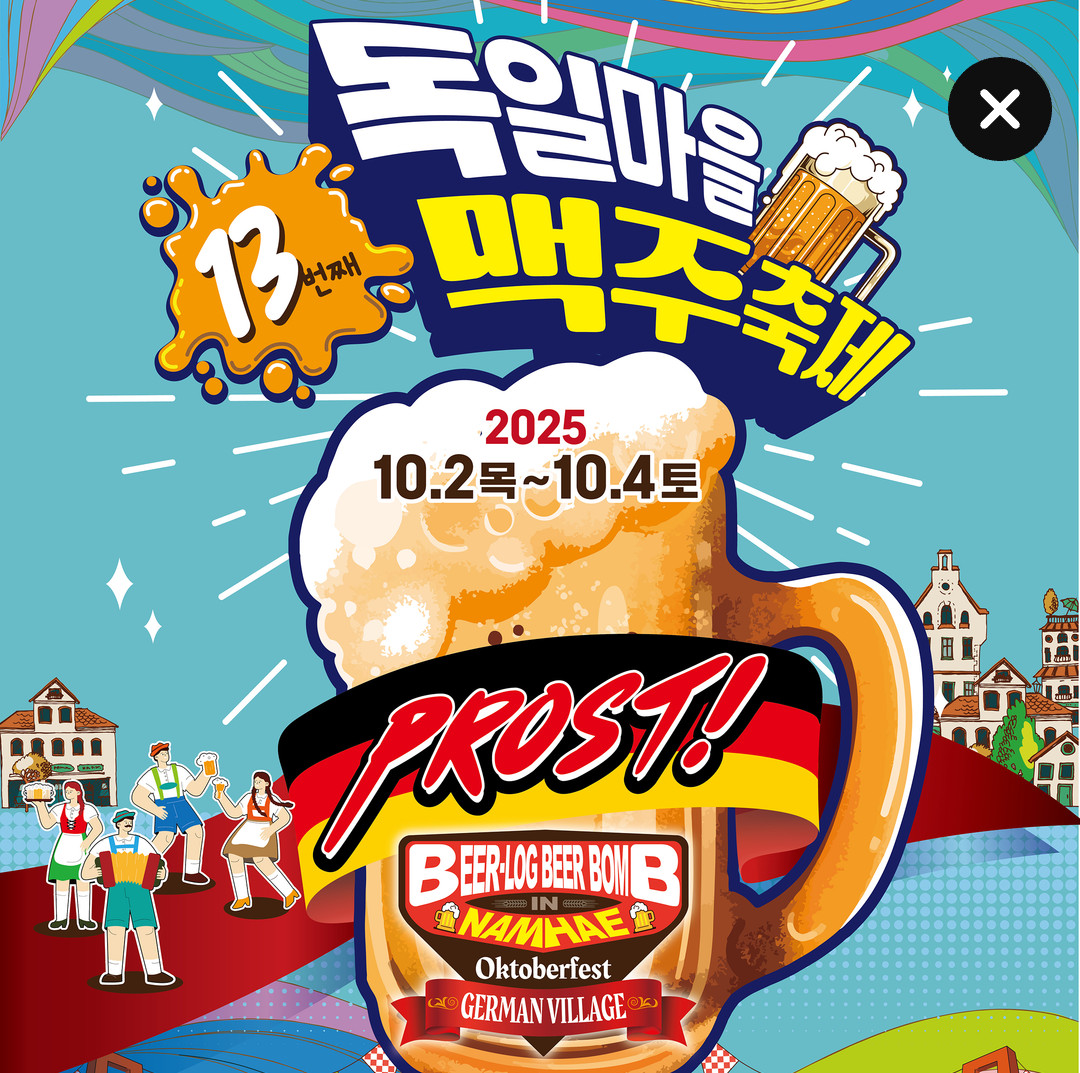
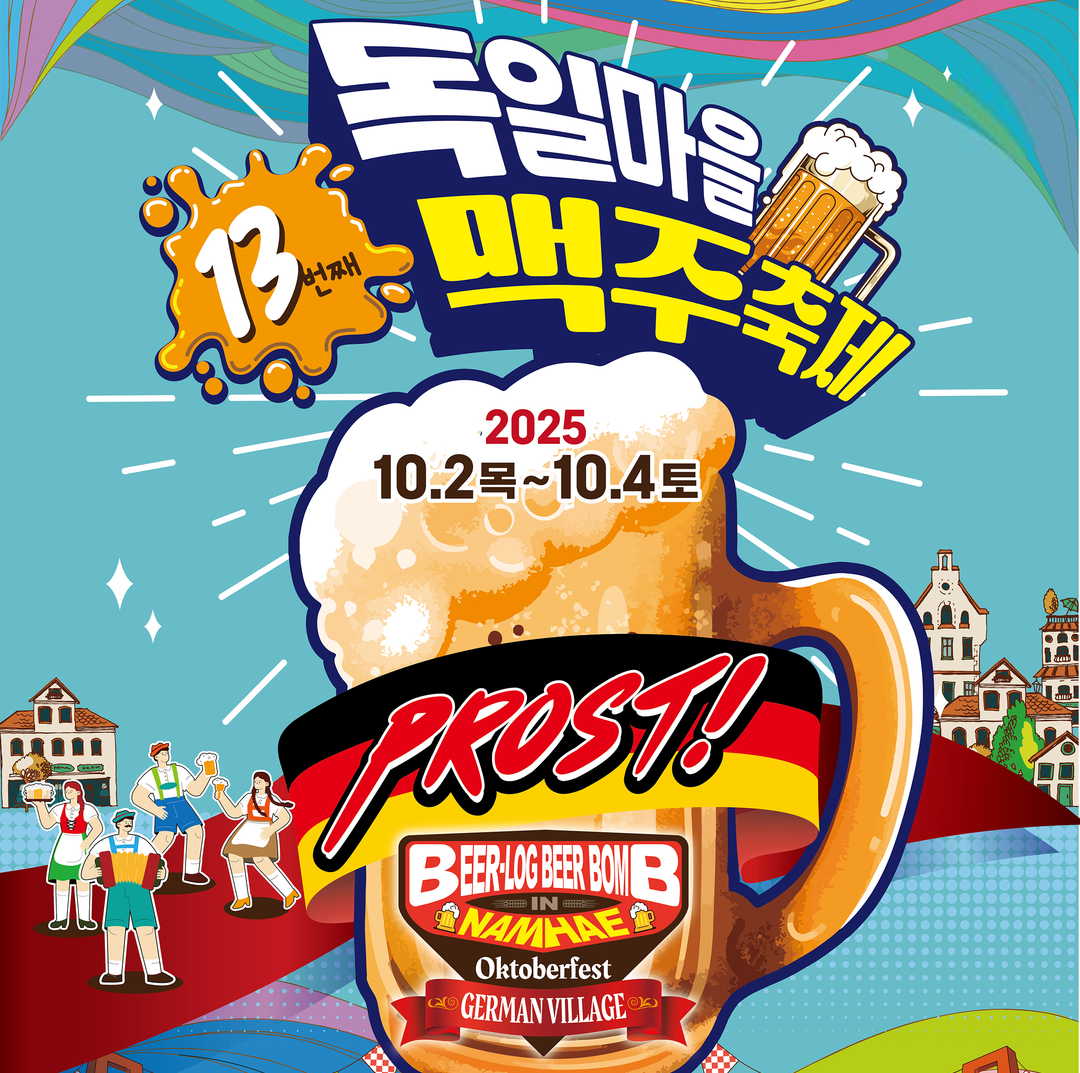
팝업

Changed region(s): [[0.8556, 0.0308, 0.9778, 0.1538]]

diff --git a/application/views/event_calendar.php b/application/views/event_calendar.php
@@ -177,7 +177,15 @@
 	.media-gap{
 		gap: 100px;
 	}
+	.popup-container{
+		right: 5%;
+    margin-top: 7%;
+	}
 	@media (max-width: 768px) {
+		.container{
+			right: auto;
+			margin-top: auto;
+		}
 		.fc-prev-button{
 			background-image: url(assets/img/month-left-m.svg);
 			top: 0px;
@@ -327,11 +335,14 @@
 	}
 </style>
 <body>
-	<div class="popup-container" style="position: sticky;z-index: 10;top: 0;">
-		<div class="card p-0" style="position: absolute; width: 450px; max-width: 100%; left: 50%; transform: translateX(-50%);">
+	<div class="" style="position: sticky;z-index: 10;top: 0;">
+		<div class="card p-0 popup-container" style="position: absolute; width: 450px; max-width: 100%;">
 			<p class="card-text m-0">
+				<div class="bg-black" data-bs-theme="dark" style="position: absolute; border-radius: 50%; padding: 10px; right: 16px; top: 32px;">
+					<button type="button" class="btn-close" aria-label="Close" onclick="closePopup()"></button>
+				</div>
 				<a href="https://www.nhokto.com/">
-					<img src="https://www.foodnews.news/data/photos/portnews/202509/20250901082315-67330.jpg" class="card-img-top popup-img" alt="">
+					<img src="assets/img/namhae_popup.png" class="card-img-top popup-img" alt="">
 				</a>
 			</p>
 			<div class="d-flex justify-content-between align-items-center">
@@ -663,6 +674,12 @@ function hidePopupFor24Hours() {
 	var now = new Date().getTime();
 	localStorage.setItem('hidePopupUntil', now + 24 * 60 * 60 * 1000);
 	document.querySelector('.popup-container').style.display = 'none';
+}
+
+// 즉시 팝업 닫기 함수
+function closePopup() {
+	var popup = document.querySelector('.popup-container');
+	if (popup) popup.style.display = 'none';
 }
 
 // 페이지 로드 시 팝업 노출 여부 체크
